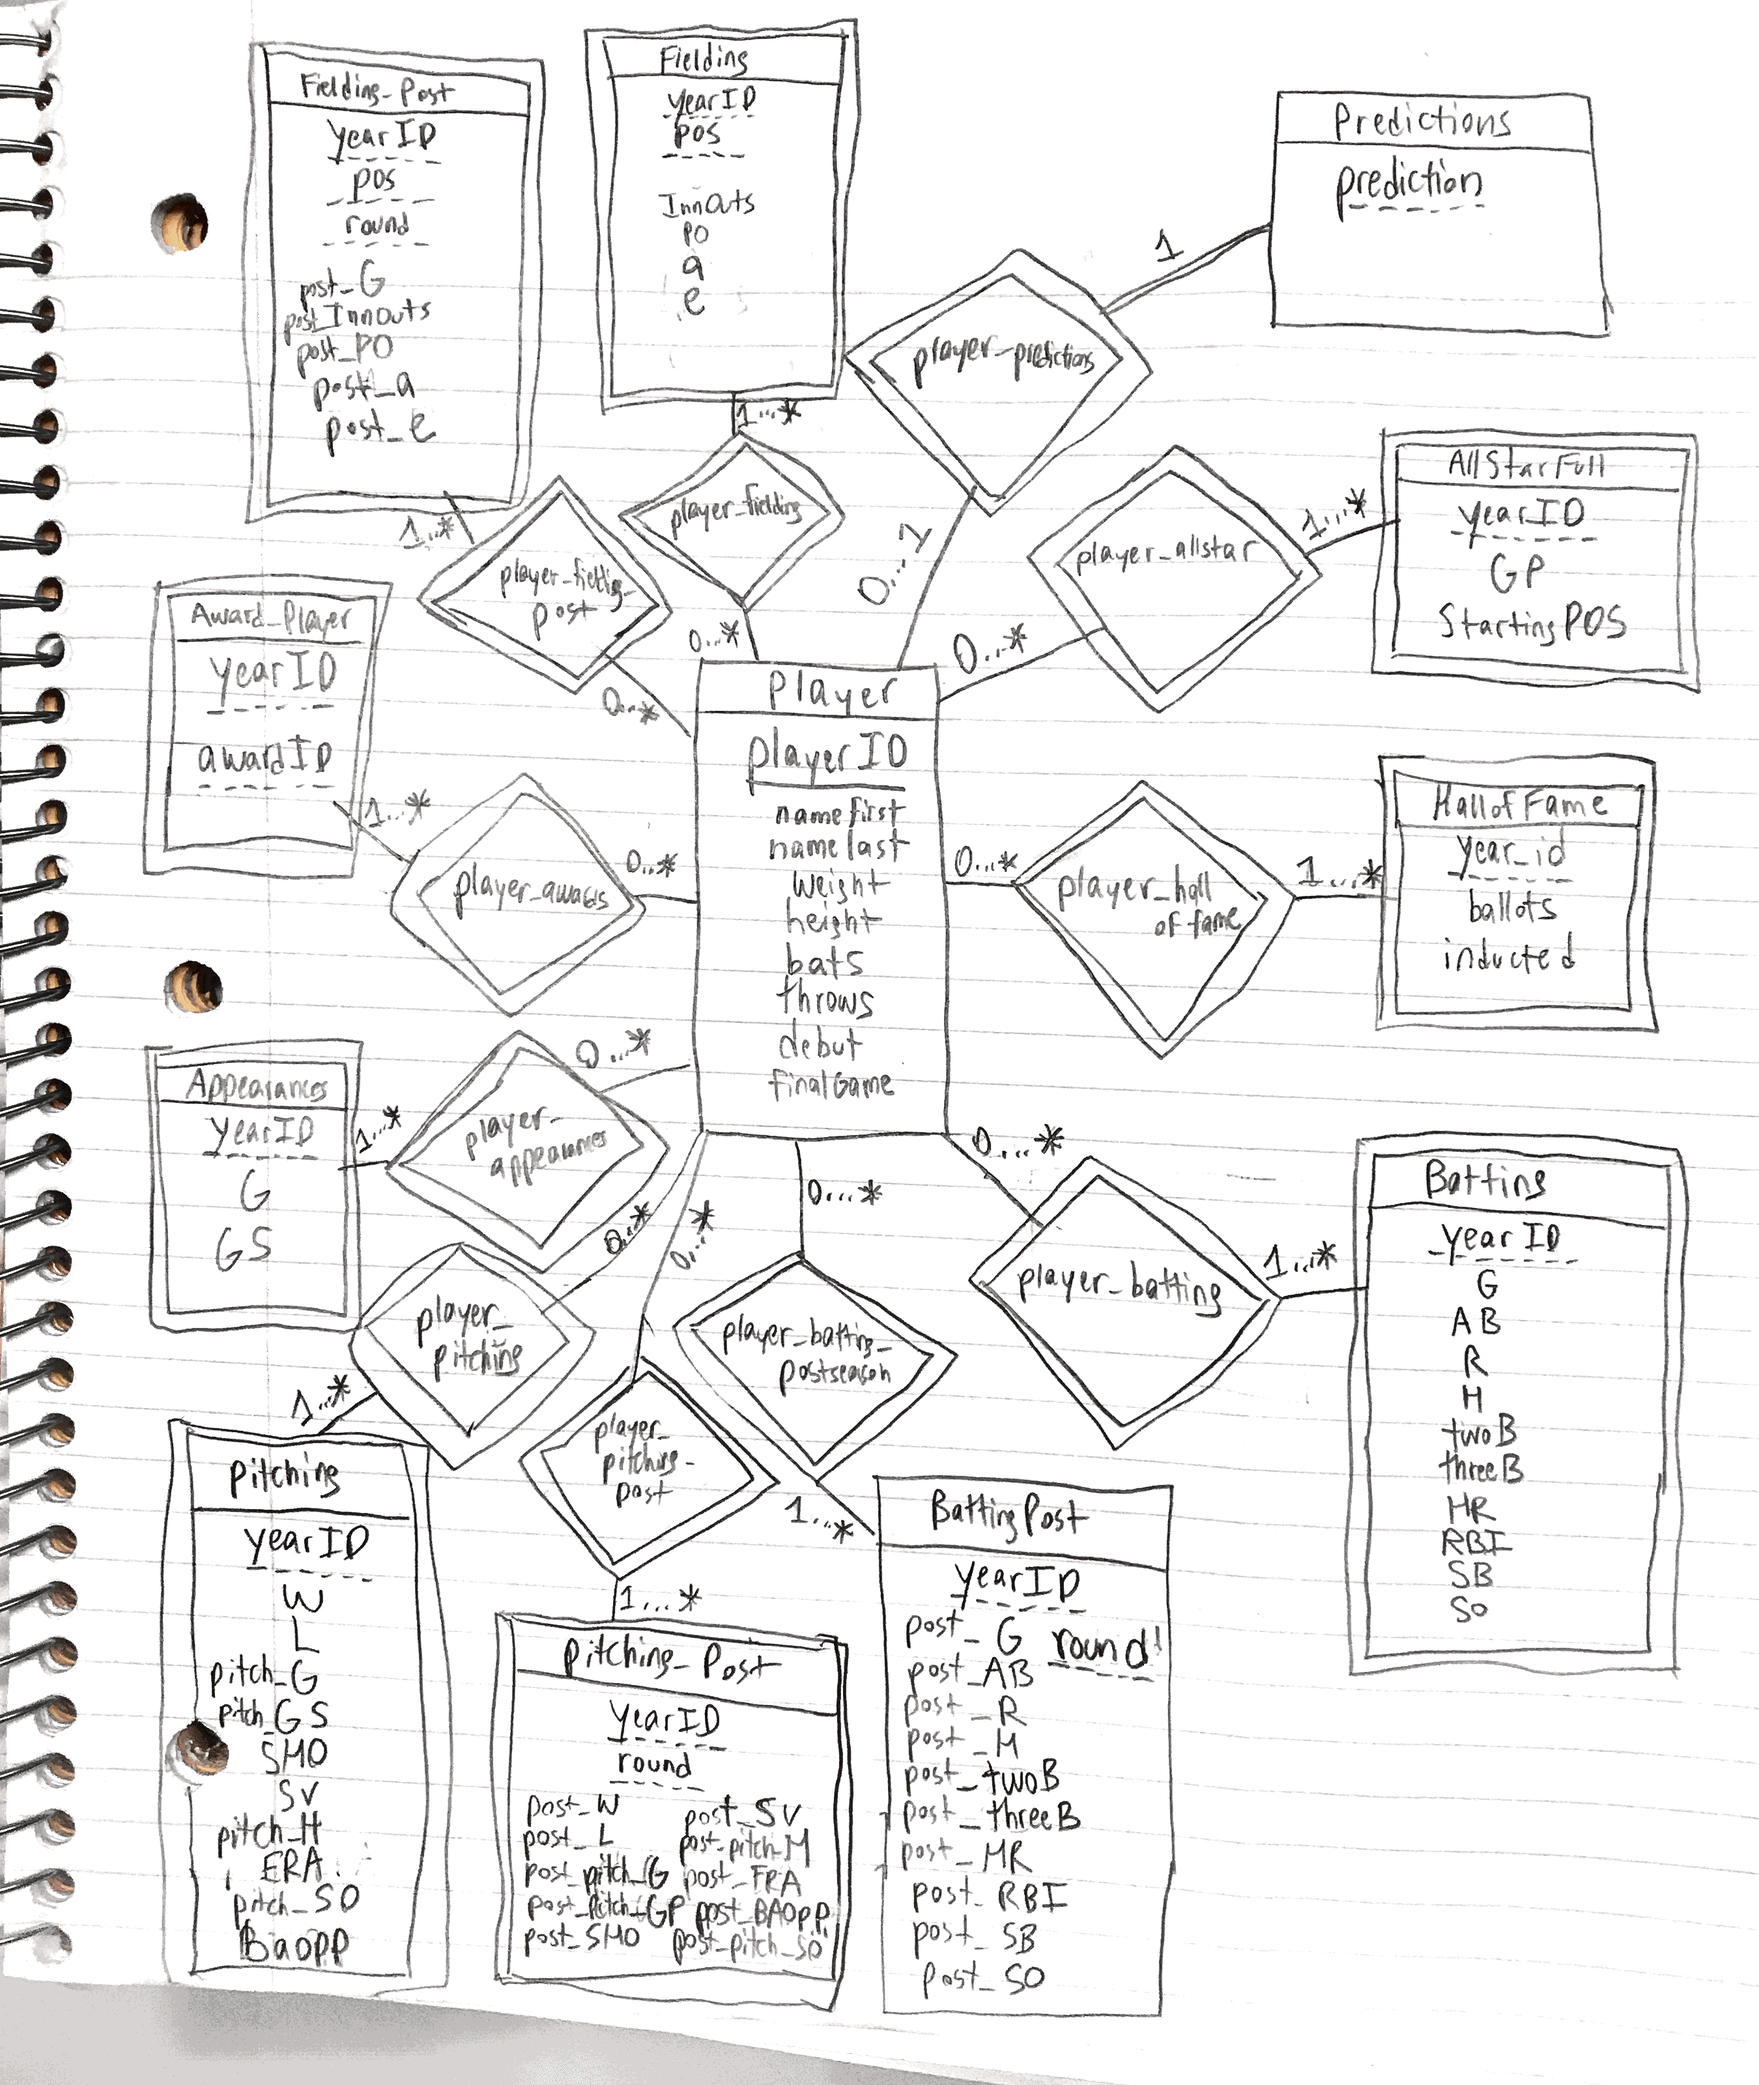
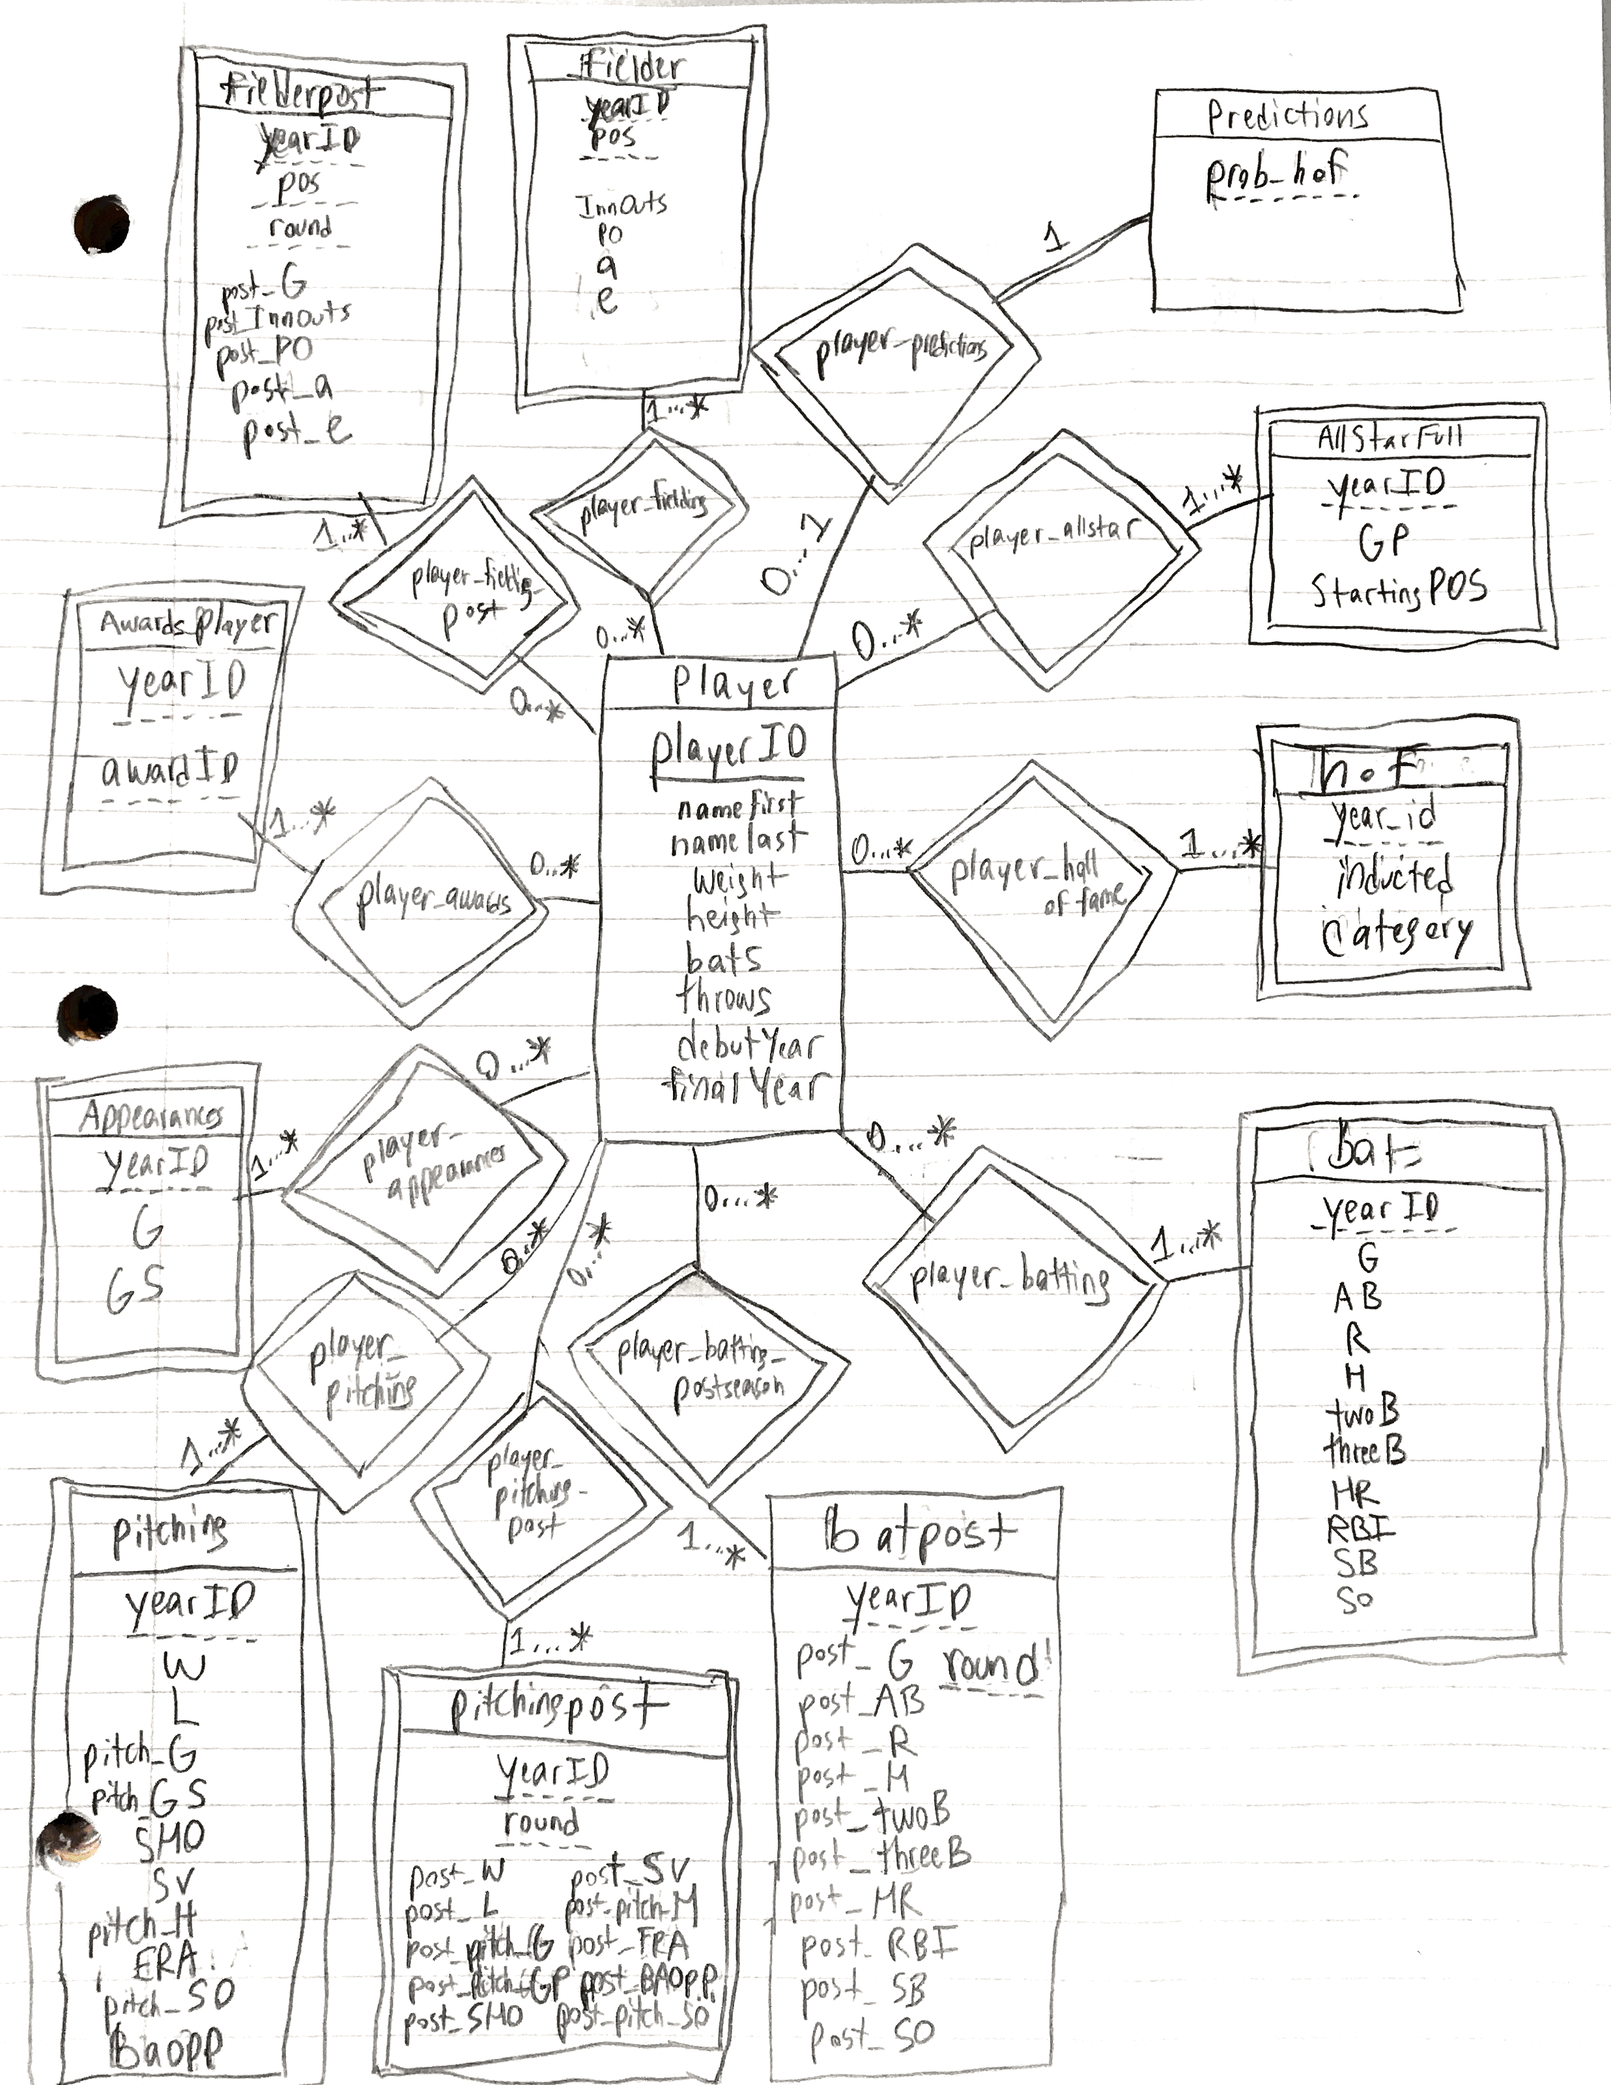
updated README, ER Diagram and added DB Schema Document

Changed region(s): [[0.0, 0.0, 0.9964, 1.0], [0.9964, 0.0, 1.0, 0.1875], [0.903, 0.125, 0.9341, 0.1562]]

diff --git a/README.md b/README.md
@@ -17,15 +17,19 @@ A more detailed summary of the rules can be found here: https://en.wikipedia.org
 
 We chose this topic as baseball is a data-oriented sport with a rich history. The sport also is very data-driven, with multiple sources having recorded comprehensive statistics going back decades. The Lahman's Baseball database is just one of many public resources for baseball data and statistics. 
 
-The sport is incredibly popular within the United States, with the games drawing millions of television viewers. Analysis of the game on various media channels also provides high ratings. Every year, one of the biggest events in the MLB calendar is the Baseball Hall of Fame induction. Every year, a cohort of older players who have been retired from playing (for at least five years) are elected into the Hall of Fame, which is a museum that honors the greatest players who have ever played in the game based on the totality of their careers. Developing a model to predict which players will be recognized as one of the greatest in the history of the game, based on data from early in their careers, is an exciting task. 
+The sport is incredibly popular within the United States, with the games drawing millions of television viewers. Analysis of the game on various media channels also provides high ratings. Every year, one of the biggest events in the MLB calendar is the Baseball Hall of Fame induction. Every year, a cohort of older players who have been retired from playing (for at least five years) are elected into the Hall of Fame, which is a museum that honors the greatest players who have ever played in the game based on the totality of their careers. 
+
+Writing the SQL to extract and manipulate features and developing a model to predict which players will be recognized as one of the greatest in the history of the game is an exciting and very interesting task, and represents a great opportunity for us to help show our knowledge of database systems. In other words, this project provides us with an exciting opportunity to incorporate our knowledge of SQL and database systems and see how it fits into the big picture in a predictive modeling project. 
 
 #### Code
 
-The *SQL* folder in this repository contains our SQL code for data extraction/processing and to feed the website. Our Python code for model development is located in the *Code* folder in this repository.
+The *SQL* folder in this repository contains our SQL code for data extraction/processing and to feed the website with predictions. 
+
+Our Python code for model development is located in the *Code* folder in this repository.
 
 #### Database Normal Form
 
-The ER diagram located in the *Docs* folder of this repository helps visualize that this database schema is in the correct normal form. 
+The ER diagram located in the *Docs* folder of this repository helps visualize that this database schema is in sufficient normal form. An additional breakdown of the database schema and what the attributes mean are also located in the *Docs* folder. 
 
 #### Model Details
 
@@ -55,4 +59,6 @@ Given additional time and resources, there is definitely opportunities to improv
 The database had a significant amount of missing values, which was a hindrance in building the Machine Learning model. In order to work around that, we needed to remove features where the percentage of missing values were more than 50%. For rest of the features, we imputed the missing values with the mean value in the column. Given that the distributions of most of these statistics is skewed, with the best players often residing on the tail end of these distributions, imputation with a mean value is pretty safe here. 
 
 The dataset also has a strong class imbalance towards players not reaching the hall of fame, so standard machine learning techniques fail to perform as well. That is because they do not have enough examples to learn the distribution of one of the classes. Therefore, we had to use a standard random oversampling technique to oversample positive examples from the training dataset. This does have a downside, as one could argue that the model potentially overfits in favor of players who make the Hall of Fame, and may inflate some of the predicted probabilities for players who are less likely to be elected into the baseball Hall of Fame. This is the lesser of two evils, however, as we can take into account that the absolute best players with the best chance of making the Hall of Fame will have very high probabilities, and that players with lower probabilities in the distribution will have substantially lower chances compared to those players with higher probabilities. 
+
+In the backend, connecting JDBC and the database, and then JDBC in the webapp, also presented technical challenges. 
 
